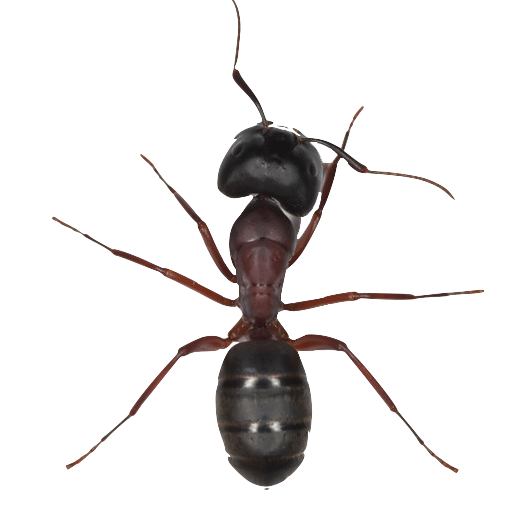
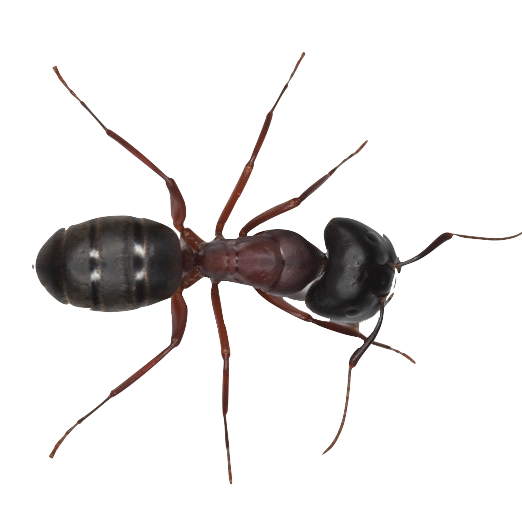
Make ants rotate toward their destination

diff --git a/ant_counter/js/Ant.js b/ant_counter/js/Ant.js
@@ -4,8 +4,9 @@ const STEP = 3;
 /* *
  * TODO:
 -* 1. Add sprite of ant
- * 2. Add rotation of ants toward their intention
+-* 2. Add rotation of ants toward their intention
  * 3. Add ants collition
+ * 4. Ant gets crazy when it reaches its destination. Fix it
  * */
 
 class Ant {
@@ -17,32 +18,13 @@ class Ant {
   }
 
   draw() {
-
     const { x, y, dirx, diry } = this;
-    const a = max(y, diry) - min(y, diry);
-    const c = dist(x, y, dirx, diry);
-
-    const rotation = sin(a,c);
-
-    /*
-    push();
-
-    translate(x - ANT_SIZE/2, y);
-    rotate(rotation);
-    image(ant, 0, 0, ANT_SIZE, ANT_SIZE);
-
-    pop();
-    /* hheeyy */
     push();
     imageMode(CENTER);
-    translate(x - ANT_SIZE/2, y - ANT_SIZE/2)
-    rotate(rotation);
+    translate(x, y)
+    rotate(atan2(diry - y, dirx - x));
     image(ant, 0, 0, ANT_SIZE, ANT_SIZE);
     pop();
-
-    /*strokeWeight(2)
-    stroke("black");
-    ellipse(this.x, this.y, w, h);*/
   }
 
   move() {

diff --git a/ant_counter/js/Farm.js b/ant_counter/js/Farm.js
@@ -8,10 +8,8 @@ class Farm {
     this.ants = new Array(population)
       .fill(0)
       .map(e => e = new Ant(
-        random(0,width),
-        random(0,height),
-        random(0,width),
-        random(0,height)
+        random(0,width), random(0,height),
+        random(0,width), random(0,height)
       ))
   }
 
@@ -23,18 +21,14 @@ class Farm {
   }
 
   addAnt() {
-    console.log('add');
     this.population++;
     this.ants.push(new Ant(
-      random(0,width),
-      random(0,height),
-      random(0,width),
-      random(0,height)
+      random(0,width), random(0,height),
+      random(0,width), random(0,height)
     ));
   }
 
   removeAnt() {
-    console.log('remove');
     this.ants.pop();
     this.population++;
   }

diff --git a/ant_counter/sketch.js b/ant_counter/sketch.js
@@ -25,6 +25,7 @@ function preload() {
   ant = loadImage("./images/ant.png")
 }
 function setup() {
+  //angleMode(DEGREES);
   createCanvas(windowWidth,windowHeight);
   frameRate(30);
   farm = new Farm(1);
